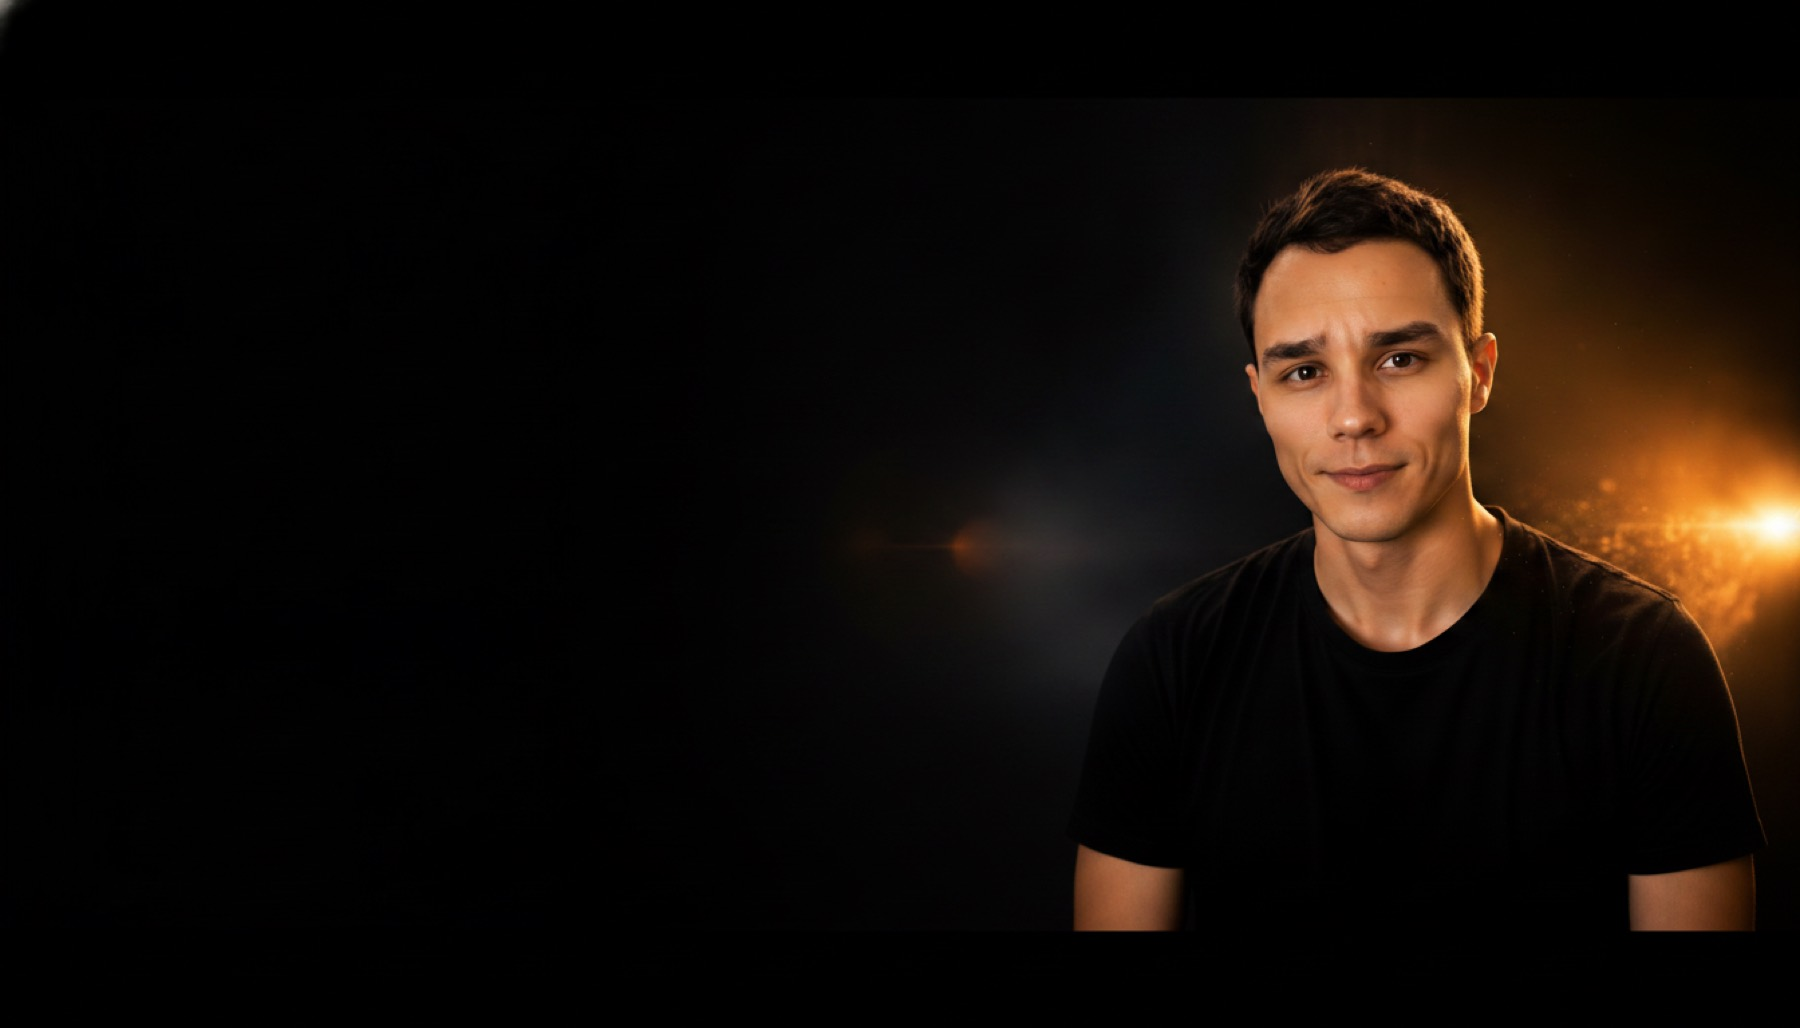
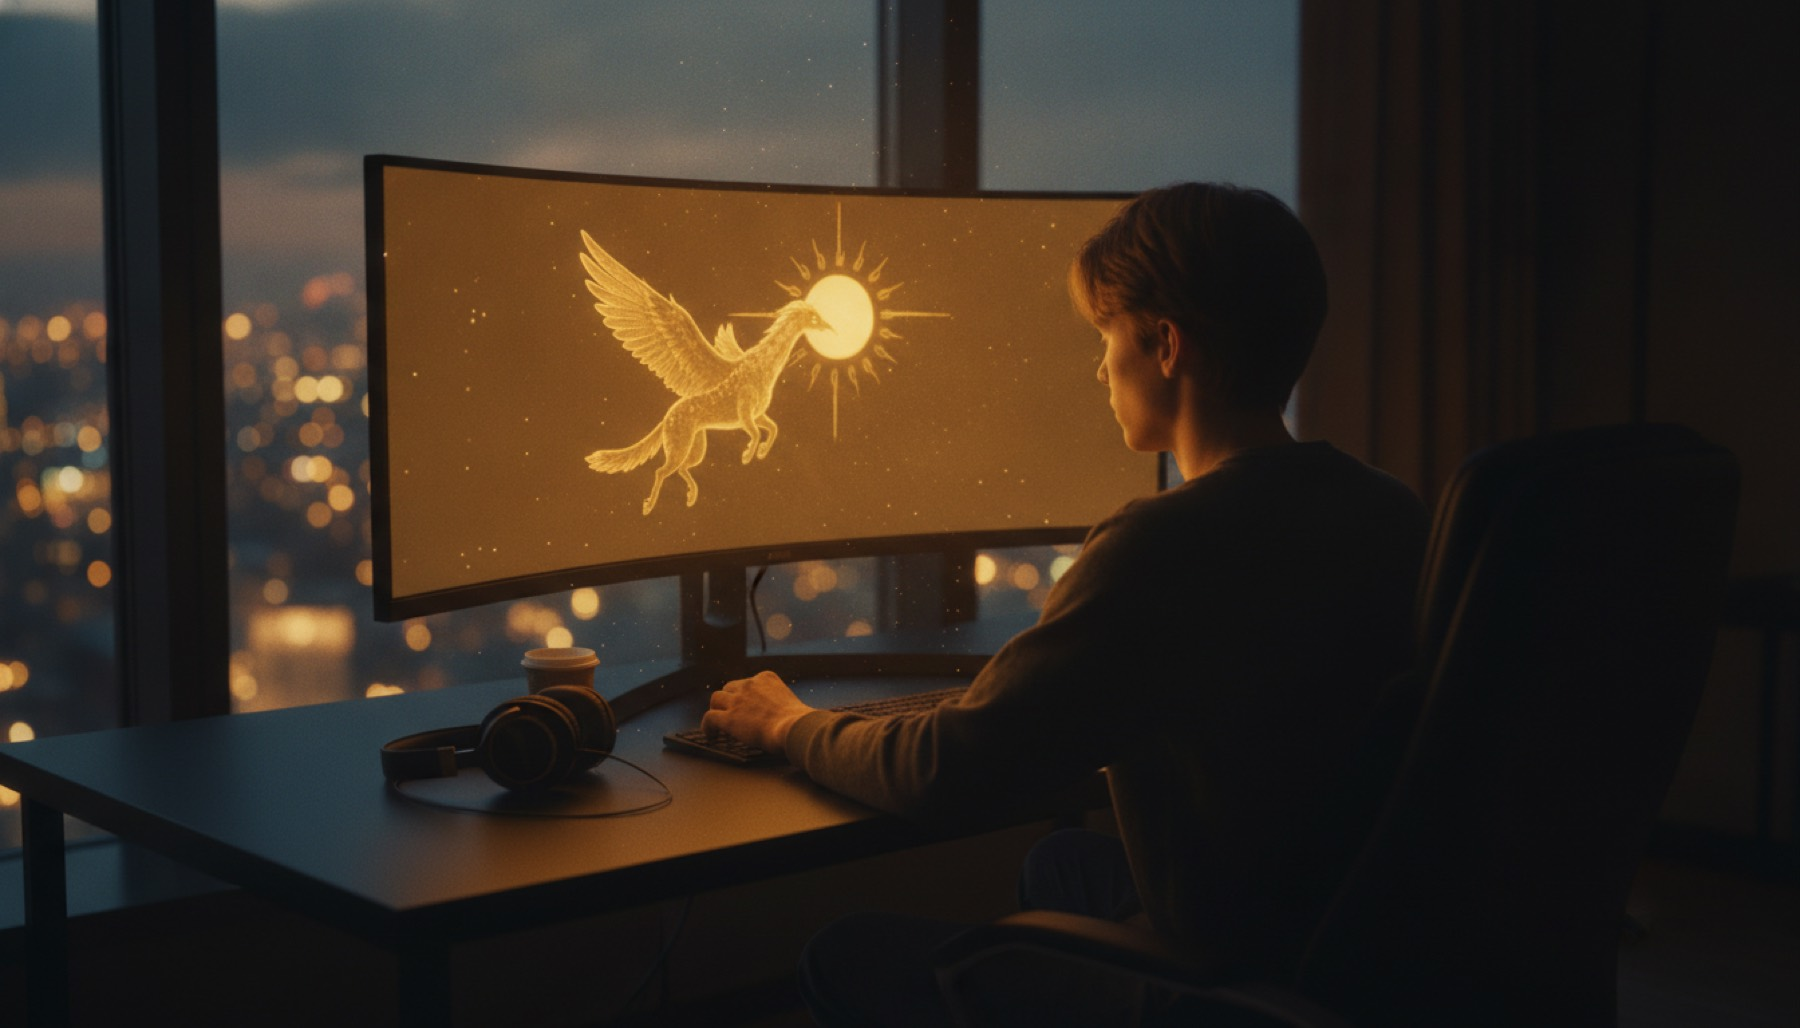
Откат: сгенерированное лицо убрано с обложки «Обо мне»

diff --git a/about.html b/about.html
@@ -320,8 +320,8 @@
   .wp span{color:var(--ink-dim);font-size:14.5px}
   @media (max-width:900px){.waypoints{grid-template-columns:1fr}}
 
-  .phero{position:relative;left:50%;transform:translateX(-50%);width:100vw;margin-top:-72px;padding:150px max(24px,calc((100vw - 1120px)/2)) 72px;overflow:hidden;min-height:86svh;display:flex;flex-direction:column;justify-content:flex-end}
-  .phero .bg{position:absolute;inset:0;width:100%;height:100%;object-fit:cover;object-position:72% center;filter:brightness(.94) saturate(1.05);z-index:-2}
+  .phero{position:relative;left:50%;transform:translateX(-50%);width:100vw;margin-top:-72px;padding:150px max(24px,calc((100vw - 1120px)/2)) 56px;overflow:hidden}
+  .phero .bg{position:absolute;inset:0;width:100%;height:100%;object-fit:cover;object-position:center 30%;filter:brightness(.6) saturate(1.08);z-index:-2}
   .phero::after{content:"";position:absolute;inset:0;background:linear-gradient(180deg,rgba(11,13,18,.3),rgba(11,13,18,.05) 45%,var(--ground) 98%);z-index:-1}
   .phero h1{font-size:clamp(36px,5vw,58px);font-weight:800;text-transform:uppercase;letter-spacing:-.01em;text-shadow:0 4px 30px rgba(0,0,0,.5)}
   .phero .eyebrow{margin-bottom:14px}
